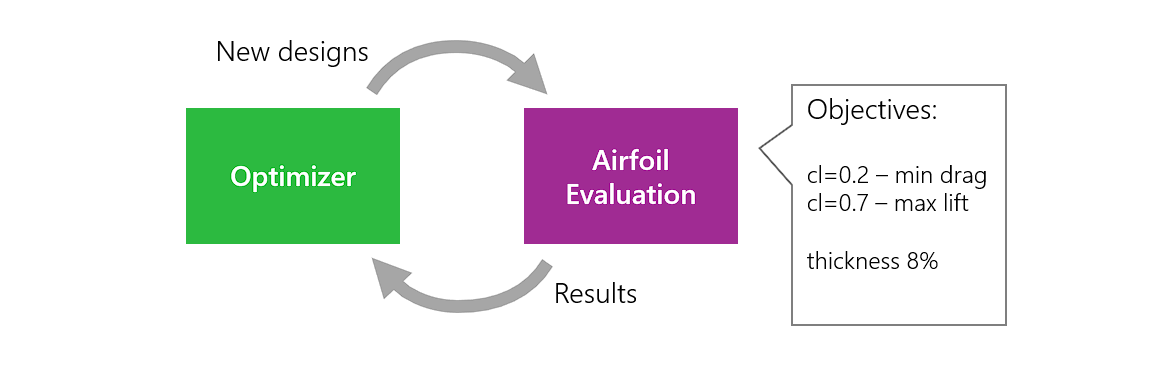
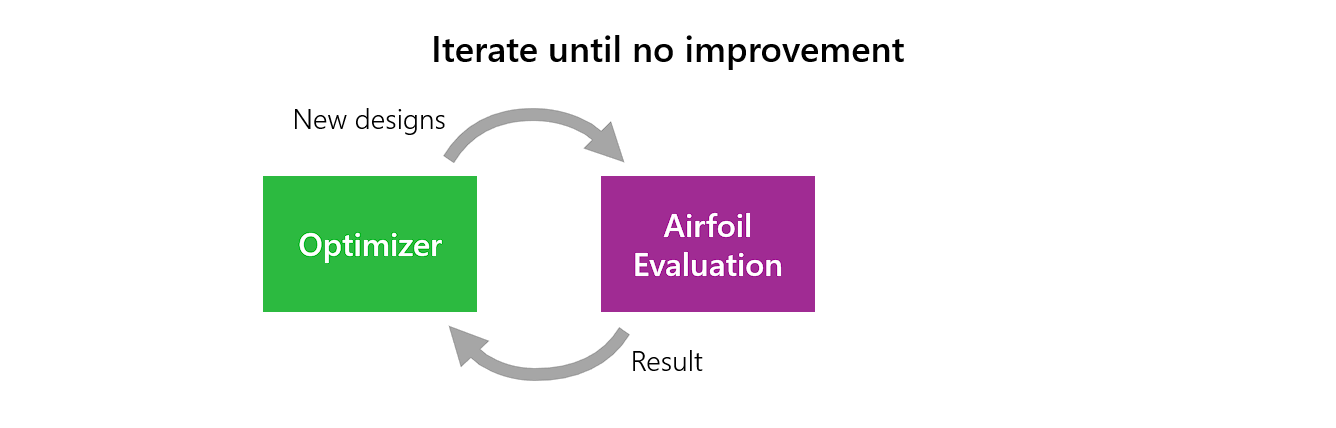
docs

diff --git a/docs/airfoil_optimization/overview.md b/docs/airfoil_optimization/overview.md
@@ -12,6 +12,13 @@ As Xoptfoil2 ...
 {: .fs-5 .fw-300 }
 
 Some text here
-
-![SD7003](../images/optimization_basics_1.png)
+![Bascis 1](../images/optimization_basics_1.png)
 ... and there 
+
+Some text here
+![Bascis 2](../images/optimization_basics_2.png)
+Some text here
+
+... and there 
+![Bascis 3](../images/optimization_basics_3.png)
+Some text here
